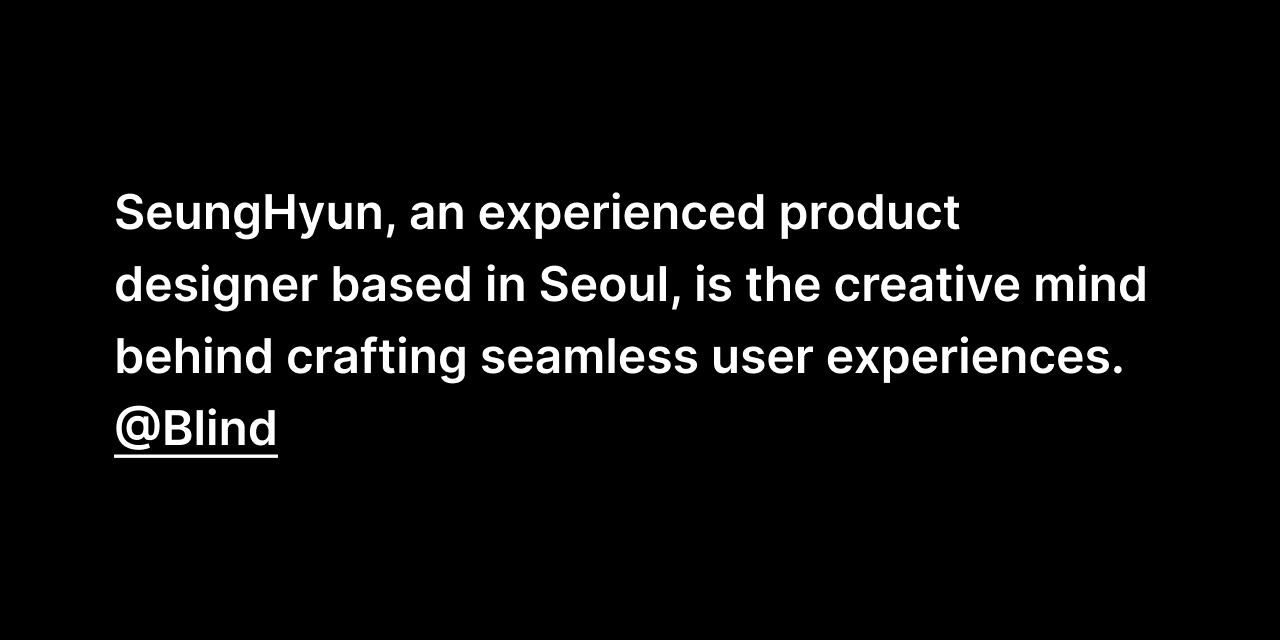
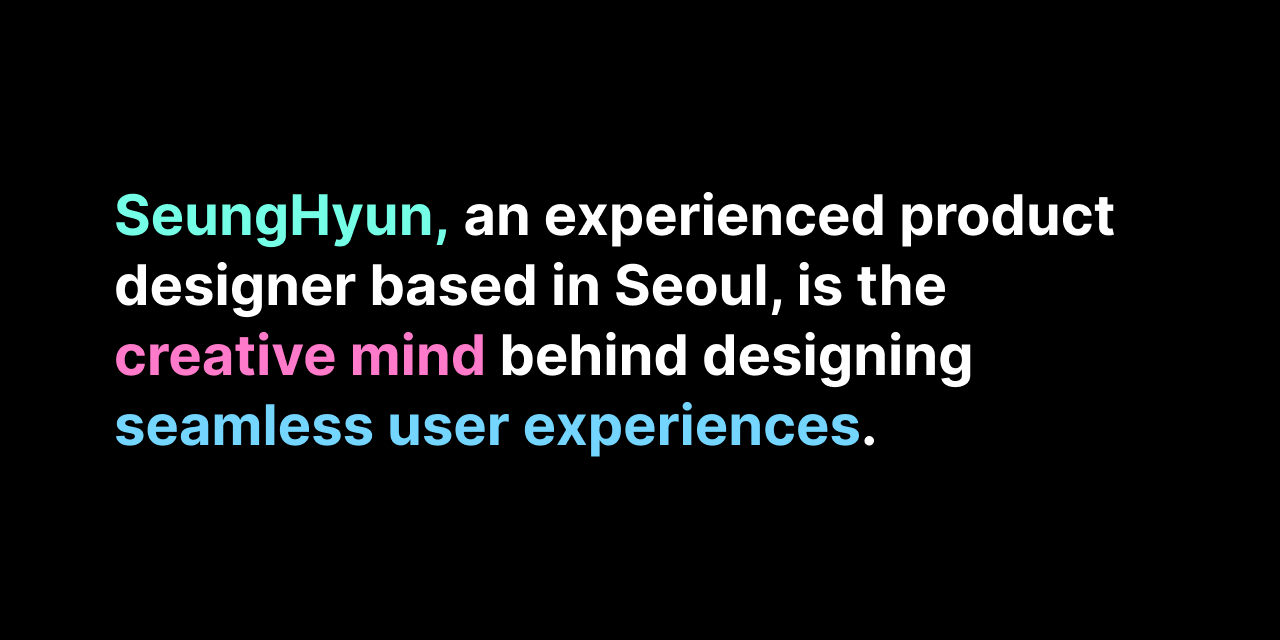
update web preview image

Changed region(s): [[0.0938, 0.2812, 0.9062, 0.7188]]

diff --git a/index.html b/index.html
@@ -9,9 +9,25 @@
     <meta name="viewport" content="width=device-width, initial-scale=1.0">
     <meta name="theme-color" media="(prefers-color-scheme: light)" content="#ffffff" />
     <meta name="theme-color" media="(prefers-color-scheme: dark)" content="#202020" />
-    <meta name="description" content="Seunghyun">
-    <meta name="keywords" content="Seunghyun, product designer">
-    <meta name="author" content="Seunghyun">
+
+    <!-- HTML meta tags -->
+    <title>SeungHyun &#124; Product Designer</title>
+    <meta name="description" content="SeungHyun's product design archive">
+
+    <!-- Facebook meta tags -->
+    <meta property="og:url" content="https://rrryuda.github.io/archive/">
+    <meta property="og:type" content="website">
+    <meta property="og:title" content="SeungHyun | Product Designer">
+    <meta property="og:description" content="SeungHyun's product design archive">
+    <meta property="og:image" content="https://rrryuda.github.io/archive/preview/preview.jpg">
+
+    <!-- Twitter meta tags -->
+    <meta name="twitter:card" content="summary_large_image">
+    <meta property="twitter:domain" content="rrryuda.github.io">
+    <meta property="twitter:url" content="https://rrryuda.github.io/archive/">
+    <meta name="twitter:title" content="SeungHyun | Product Designer">
+    <meta name="twitter:description" content="SeungHyun's product design archive">
+    <meta name="twitter:image" content="https://rrryuda.github.io/archive/preview/preview.jpg">
 
     <!-- favicon -->
     <link rel="apple-touch-icon" sizes="180x180" href="./source/favicon/apple-touch-icon.png">
@@ -37,9 +53,6 @@
 
     <!-- script -->
     <script src="./js/main.js"></script>
-
-    <!-- page title -->
-    <title>SeungHyun &#124; Designer</title>
 </head>
 
 <body>
@@ -50,7 +63,7 @@
         <!-- intro -->
         <section>
             <div class="cell">
-                <h1>SeungHyun, an experienced product designer based in Seoul, is the creative mind behind crafting
+                <h1>SeungHyun, an experienced product designer based in Seoul, is the creative mind behind designing
                     seamless user experiences.
                     <a href="https://www.teamblind.com/" target="_blank">@Blind</a>
                 </h1>

diff --git a/maps/index.html b/maps/index.html
@@ -9,9 +9,25 @@
     <meta name="viewport" content="width=device-width, initial-scale=1.0">
     <meta name="theme-color" media="(prefers-color-scheme: light)" content="#ffffff" />
     <meta name="theme-color" media="(prefers-color-scheme: dark)" content="#202020" />
-    <meta name="description" content="Seunghyun">
-    <meta name="keywords" content="Seunghyun, product designer">
-    <meta name="author" content="Seunghyun">
+
+    <!-- HTML meta tags -->
+    <title>SeungHyun &#124; 42dot Maps SDK</title>
+    <meta name="description" content="SeungHyun's product design archive">
+
+    <!-- Facebook meta tags -->
+    <meta property="og:url" content="https://rrryuda.github.io/archive/">
+    <meta property="og:type" content="website">
+    <meta property="og:title" content="SeungHyun | Product Designer">
+    <meta property="og:description" content="SeungHyun's product design archive">
+    <meta property="og:image" content="https://rrryuda.github.io/archive/preview/preview.jpg">
+
+    <!-- Twitter meta tags -->
+    <meta name="twitter:card" content="summary_large_image">
+    <meta property="twitter:domain" content="rrryuda.github.io">
+    <meta property="twitter:url" content="https://rrryuda.github.io/archive/">
+    <meta name="twitter:title" content="SeungHyun | Product Designer">
+    <meta name="twitter:description" content="SeungHyun's product design archive">
+    <meta name="twitter:image" content="https://rrryuda.github.io/archive/preview/preview.jpg">
 
     <!-- favicon -->
     <link rel="apple-touch-icon" sizes="180x180" href="../source/favicon/apple-touch-icon.png">
@@ -37,9 +53,6 @@
 
     <!-- script -->
     <script src="../js/main.js"></script>
-
-    <!-- page title -->
-    <title>SeungHyun &#124; 42dot Maps SDK</title>
 </head>
 
 <body>

diff --git a/experience/index.html b/experience/index.html
@@ -9,9 +9,25 @@
     <meta name="viewport" content="width=device-width, initial-scale=1.0">
     <meta name="theme-color" media="(prefers-color-scheme: light)" content="#ffffff" />
     <meta name="theme-color" media="(prefers-color-scheme: dark)" content="#202020" />
-    <meta name="description" content="Seunghyun">
-    <meta name="keywords" content="Seunghyun, product designer">
-    <meta name="author" content="Seunghyun">
+
+    <!-- HTML meta tags -->
+    <title>SeungHyun &#124; Experience</title>
+    <meta name="description" content="SeungHyun's product design archive">
+
+    <!-- Facebook meta tags -->
+    <meta property="og:url" content="https://rrryuda.github.io/archive/">
+    <meta property="og:type" content="website">
+    <meta property="og:title" content="SeungHyun | Product Designer">
+    <meta property="og:description" content="SeungHyun's product design archive">
+    <meta property="og:image" content="https://rrryuda.github.io/archive/preview/preview.jpg">
+
+    <!-- Twitter meta tags -->
+    <meta name="twitter:card" content="summary_large_image">
+    <meta property="twitter:domain" content="rrryuda.github.io">
+    <meta property="twitter:url" content="https://rrryuda.github.io/archive/">
+    <meta name="twitter:title" content="SeungHyun | Product Designer">
+    <meta name="twitter:description" content="SeungHyun's product design archive">
+    <meta name="twitter:image" content="https://rrryuda.github.io/archive/preview/preview.jpg">
 
     <!-- favicon -->
     <link rel="apple-touch-icon" sizes="180x180" href="../source/favicon/apple-touch-icon.png">
@@ -37,9 +53,6 @@
 
     <!-- script -->
     <script src="../js/main.js"></script>
-
-    <!-- page title -->
-    <title>SeungHyun &#124; Experience</title>
 </head>
 
 <body>
